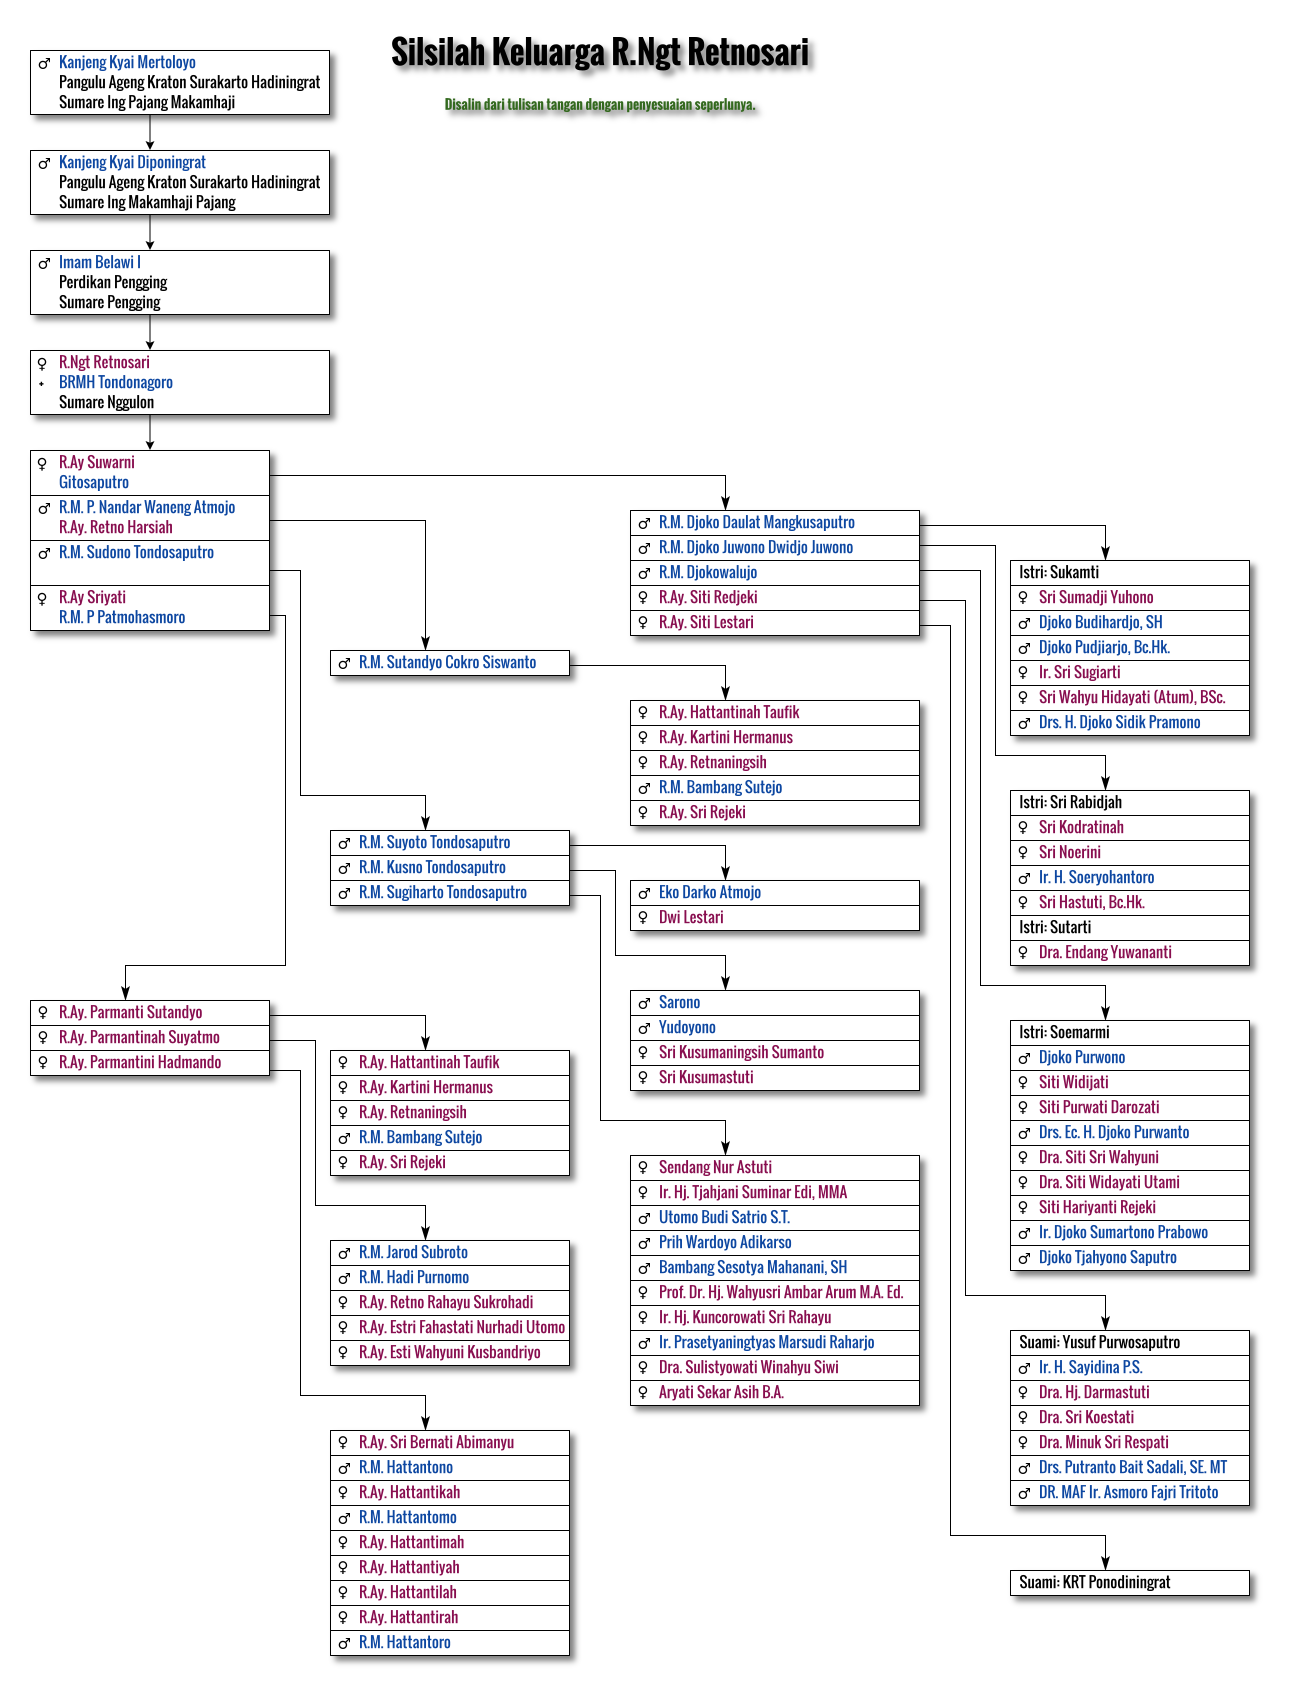
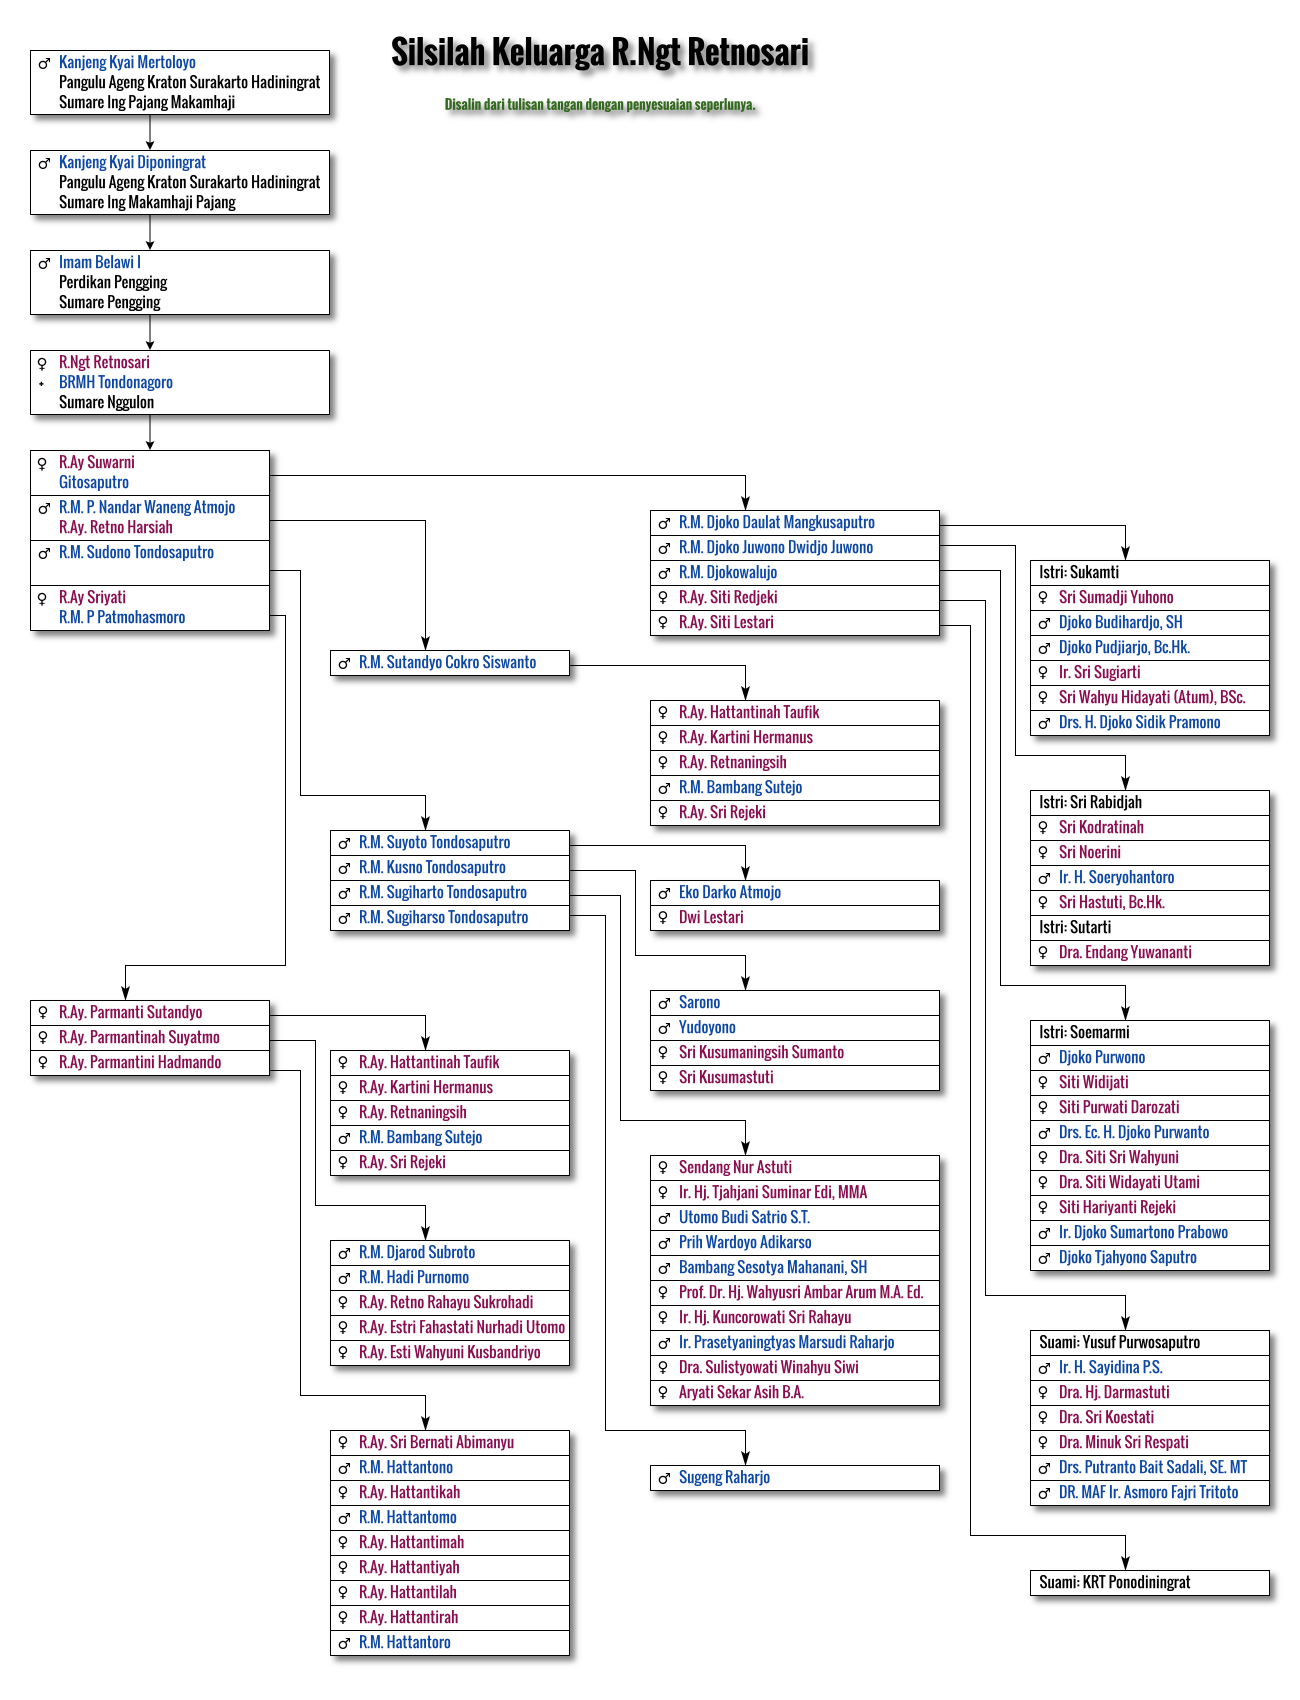
Silsilah - Retnosari Tondonegoro: Revisi

diff --git a/_content/silsilah/2018-08-27-retnosari-tondonegoro.md b/_content/silsilah/2018-08-27-retnosari-tondonegoro.md
@@ -202,17 +202,20 @@ Diagram sengaja saya bikin dalam bentuk kompak supaya tidak terlalu besar.
 │   ├── Anak: ♀ Sri Kusumaningsih Sumanto
 │   └── Anak: ♀ Sri Kusumastuti
 │
+├── Anak: ♂ R.M. Sugiharto Tondosaputro
+│   ├── Anak: ♀ Sendang Nur Astuti
+│   ├── Anak: ♀ Ir. Hj. Tjahjani Suminar Edi, MMA
+│   ├── Anak: ♂ Utomo Budi Satrio S.T.
+│   ├── Anak: ♂ Prih Wardoyo Adikarso
+│   ├── Anak: ♂ Bambang Sesotya Mahanani, SH
+│   ├── Anak: ♀ Prof. Dr. Hj. Wahyusri Ambar Arum M.A. Ed.
+│   ├── Anak: ♀ Ir. Hj. Kuncorowati Sri Rahayu
+│   ├── Anak: ♂ Ir. Prasetyaningtyas Marsudi Raharjo
+│   ├── Anak: ♀ Dra. Sulistyowati Winahyu Siwi
+│   └── Anak: ♀ Aryati Sekar Asih B.A.
+│
 └── Anak: ♂ R.M. Sugiharto Tondosaputro
-    ├── Anak: ♀ Sendang Nur Astuti
-    ├── Anak: ♀ Ir. Hj. Tjahjani Suminar Edi, MMA
-    ├── Anak: ♂ Utomo Budi Satrio S.T.
-    ├── Anak: ♂ Prih Wardoyo Adikarso
-    ├── Anak: ♂ Bambang Sesotya Mahanani, SH
-    ├── Anak: ♀ Prof. Dr. Hj. Wahyusri Ambar Arum M.A. Ed.
-    ├── Anak: ♀ Ir. Hj. Kuncorowati Sri Rahayu
-    ├── Anak: ♂ Ir. Prasetyaningtyas Marsudi Raharjo
-    ├── Anak: ♀ Dra. Sulistyowati Winahyu Siwi
-    └── Anak: ♀ Aryati Sekar Asih B.A.
+    └── Anak: ♂ Sugeng Raharjo
 {% endhighlight %}
 
 ### R.Ay Sriyati
@@ -230,7 +233,7 @@ Diagram sengaja saya bikin dalam bentuk kompak supaya tidak terlalu besar.
 │   └── Anak: ♀ R.Ay. Sri Rejeki
 │
 ├── Anak: ♀ R.Ay. Parmantinah Suyatmo
-│   ├── Anak: ♂ R.M. Jarod Subroto
+│   ├── Anak: ♂ R.M. Djarod Subroto
 │   ├── Anak: ♂ R.M. Hadi Purnomo
 │   ├── Anak: ♀ R.Ay. Retno Rahayu Sukrohadi
 │   ├── Anak: ♀ R.Ay. Estri Fahastati Nurhadi Utomo
